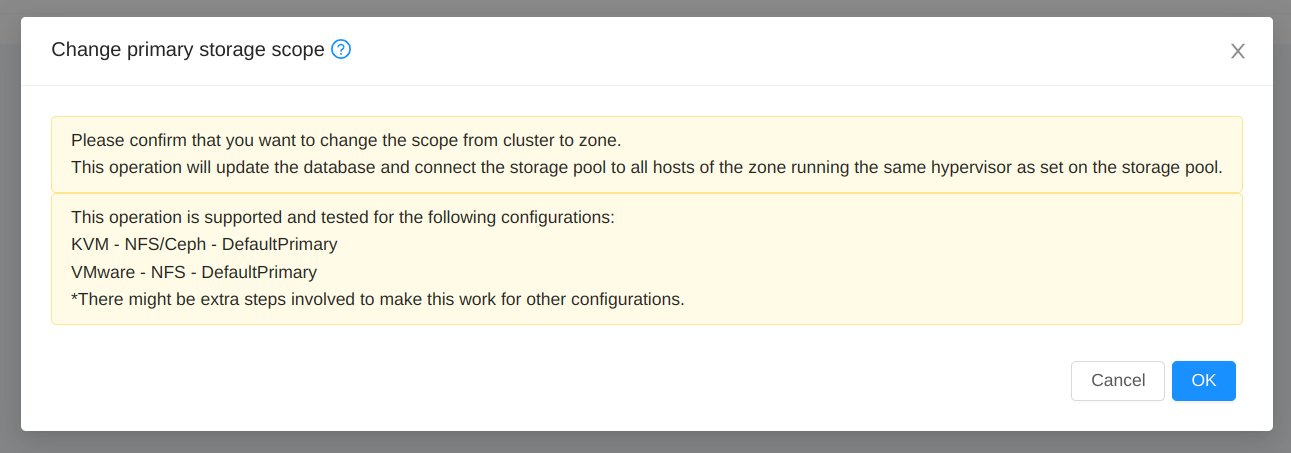
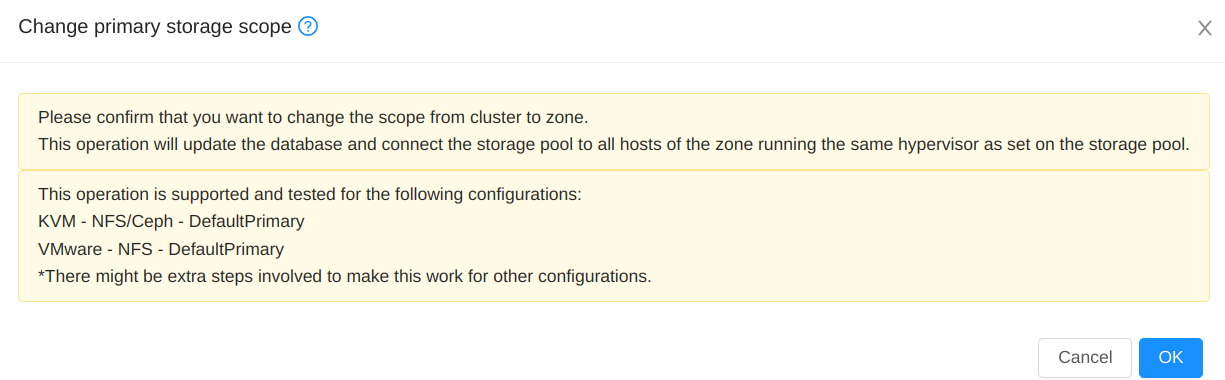
Pull 395: Updated screenshot for cluster to zone scope change

diff --git a/source/adminguide/storage.rst b/source/adminguide/storage.rst
@@ -196,6 +196,8 @@ An action button is displayed in UI for each Primary Storage in Disabled state.
 Scope change from Cluster to Zone will connect the Primary Storage to all Hosts
 of the zone running the same hypervisor as set on the storage pool.
 
+|change-storage-pool-scope-to-zone.png|
+
 Scope change from Zone to Cluster will disconnect the Primary Storage from all
 Hosts that were previously connected to the Primary Storage and are not a part
 of the specified Cluster. So, if there are running VMs on such hosts using this
@@ -1447,6 +1449,8 @@ Deleting objects from a bucket
    :alt: Adding Local Storage Pool via UI
 .. |change-storage-pool-scope-via-ui.png| image:: /_static/images/change-storage-pool-scope-via-ui.png
    :alt: Change Primary Storage Scope via UI
+.. |change-storage-pool-scope-to-zone.png| image:: /_static/images/change-storage-pool-scope-to-zone.png
+   :alt: Change Primary Storage Scope to Zone via UI
 .. |list-unmanaged-managed-volumes.png| image:: /_static/images/list-unmanaged-managed-volumes.png
    :alt: List of Unmanaged and Managed Volumes
 .. |import-volume.png| image:: /_static/images/import-volume.png
